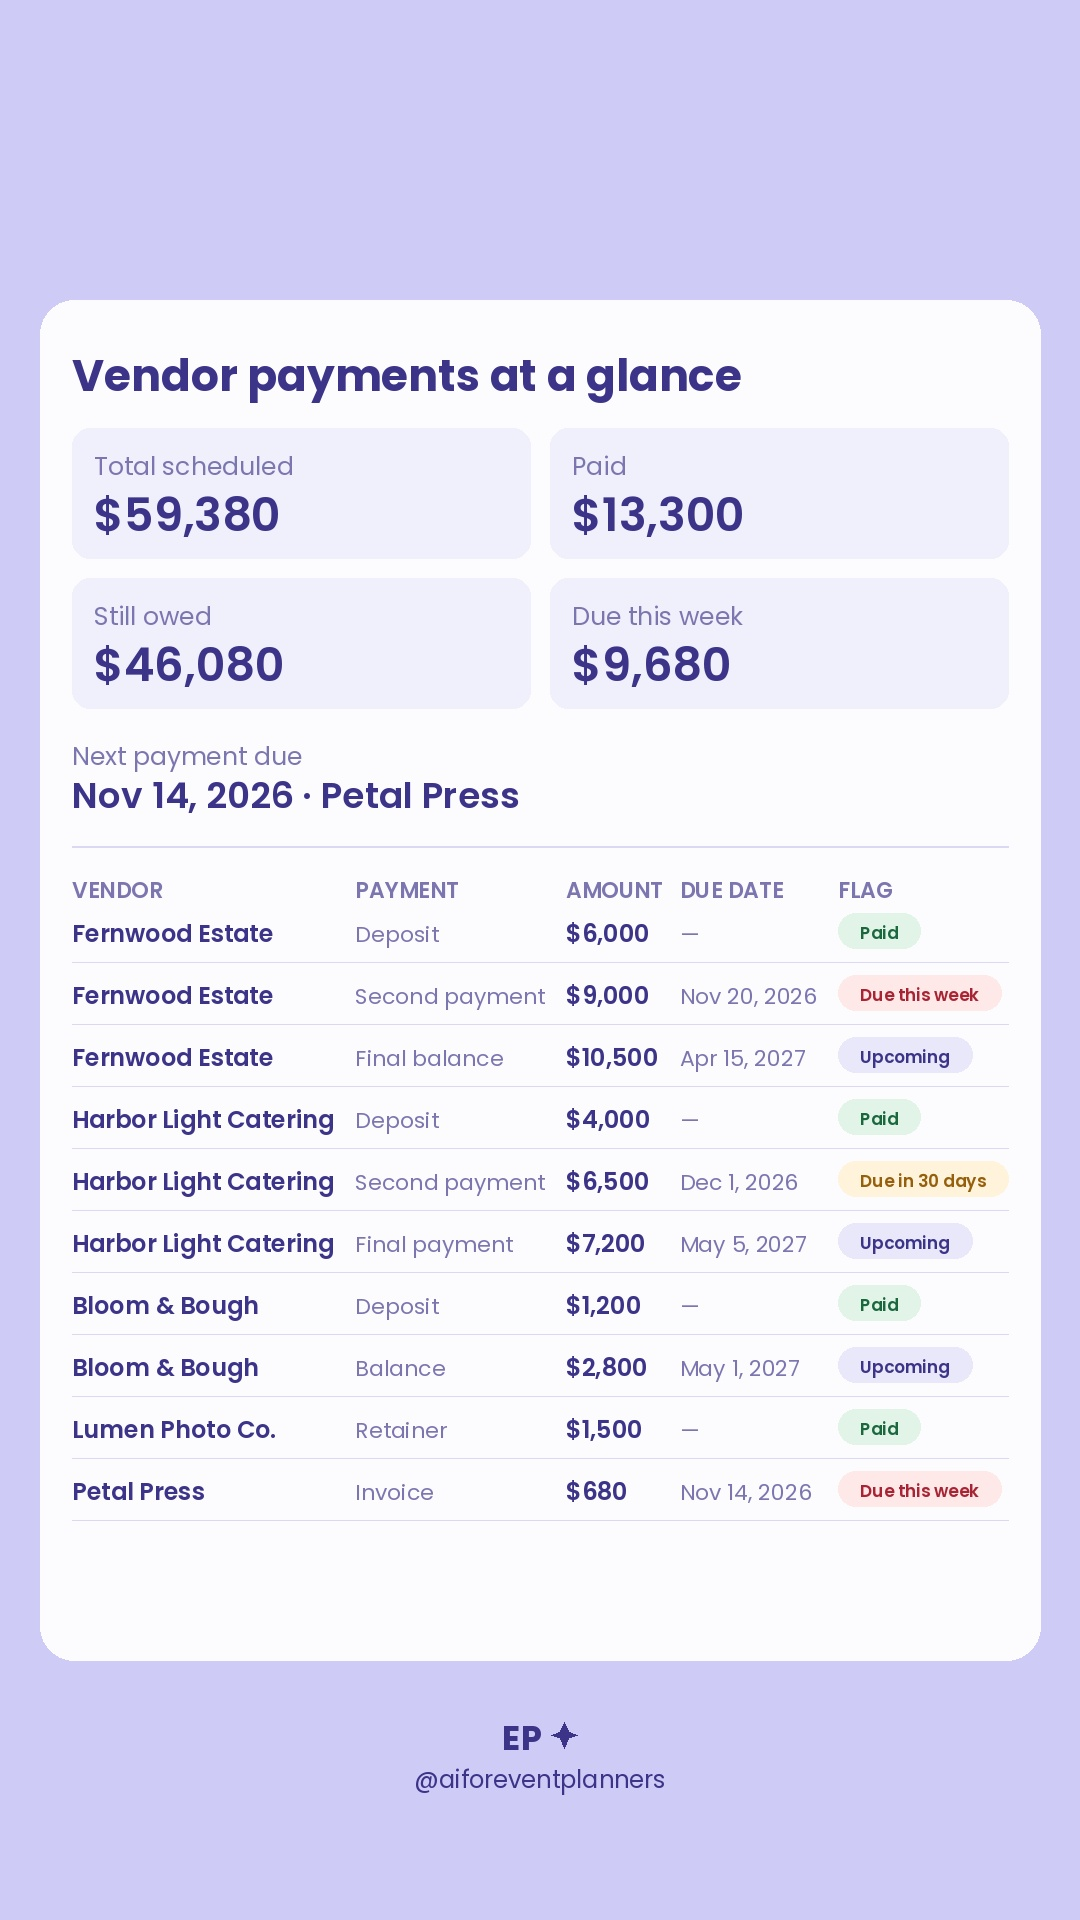
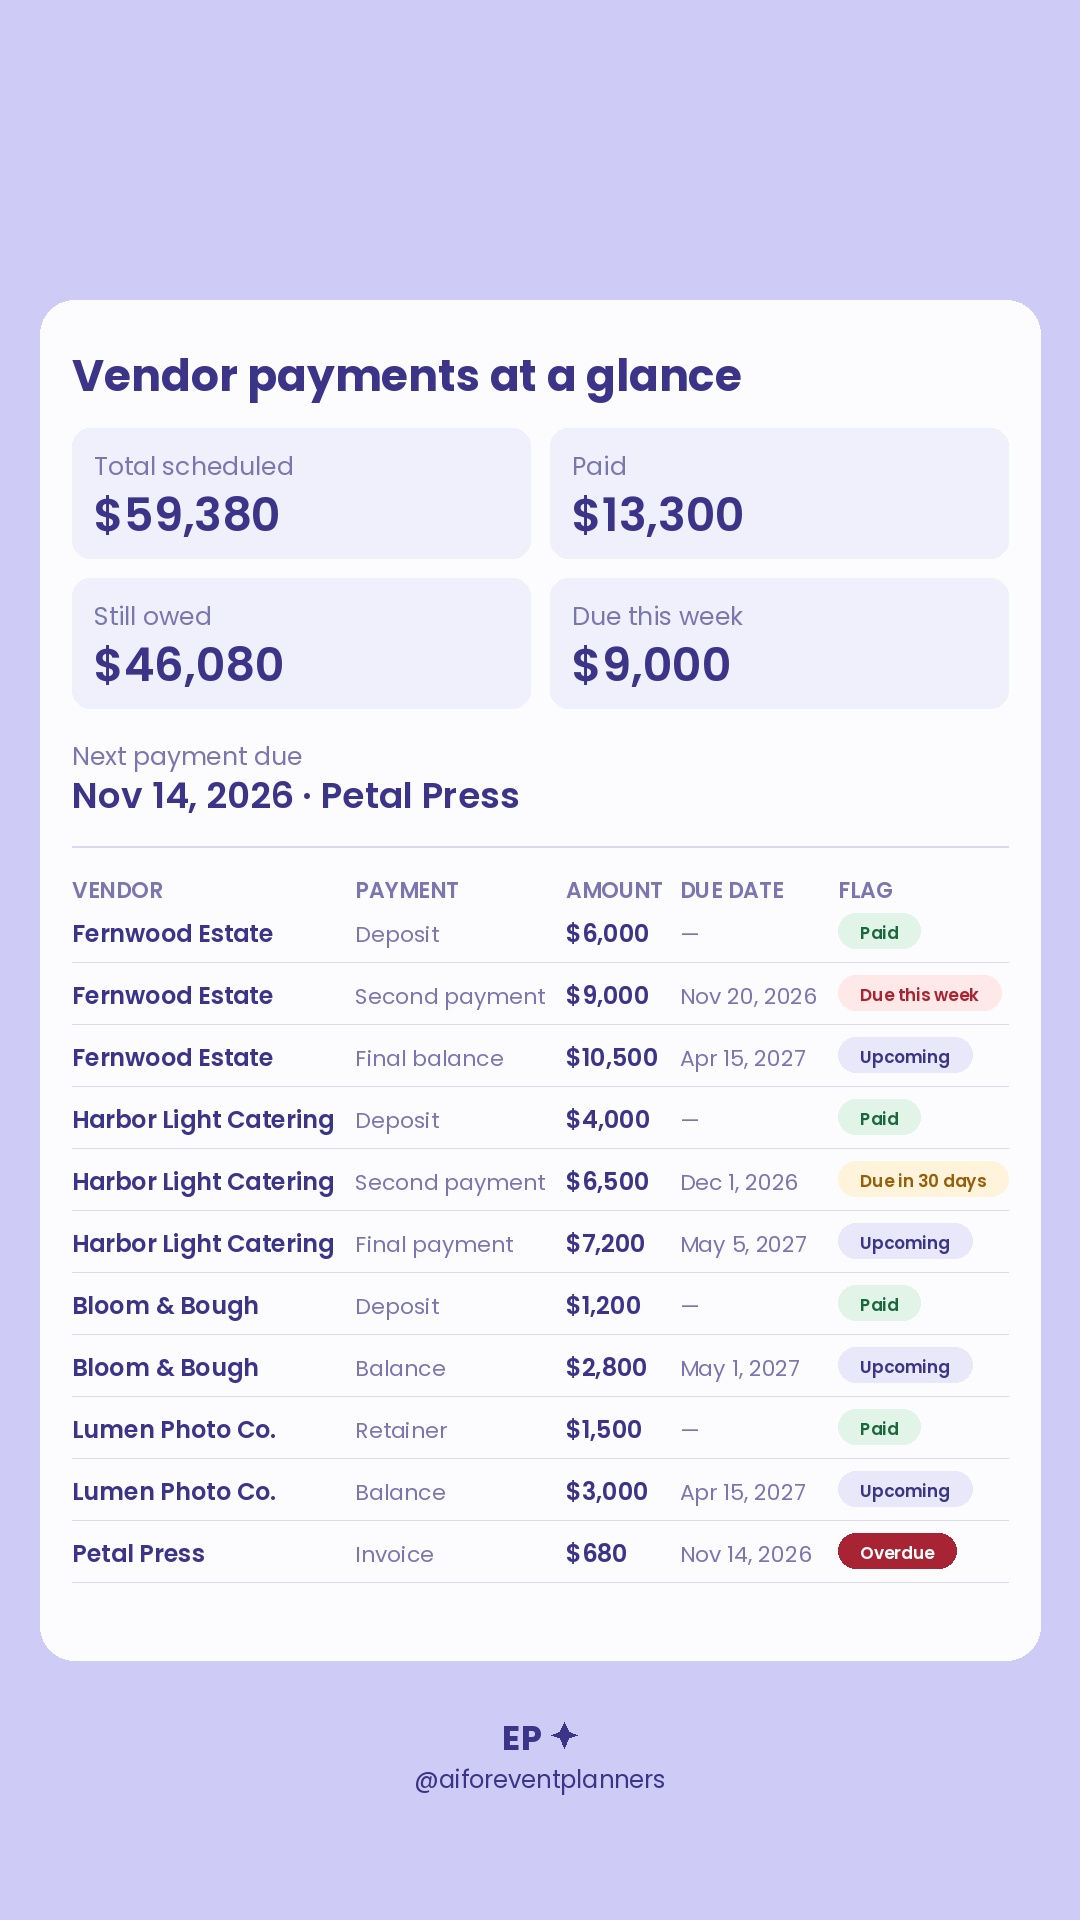
Re-render the tracker Story for her Sat 21 slot
The guide's Sat 21 CC line asks for a screenshot of the filled Vendor
Payment System tracker by Fri 20. The Nov 13 render is stale: two of its
figures recompute daily.

Re-read the live tracker (1P6zCWC18kY-SC2oocX7xzZcEMF0CXxEg3f6qDqdiOqo)
this morning. What moved:

- Petal Press' $680 invoice is six days past its Nov 14 due date, so the
  sheet's computed Flag column reads Overdue. make_story.py had no chip
  for that value; it does now, filled #A82434 with white text so it is the
  loudest cell on the card. check() asserts exactly one Overdue row is in
  frame, because that row is the argument for the product.
- Due this week fell $9,680 -> $9,000: Fernwood's second payment came due
  today and Petal Press moved out of the week.
- Due in the next 30 days reads $16,750.
- "Next payment due" still reads Nov 14 / Petal Press, because that row is
  unpaid. Left exactly as the sheet computes it; the Overdue chip on the
  same row is what makes it legible.

Grid is eleven rows now (the card holds eleven, asserted), so Lumen's
balance joins the ten from Nov 13. Paid rows still sum to $12,700 against
the sheet's $13,300 across all eighteen, which the existing assert checks.
Every vendor is a demo vendor from the product's own test emails.

Claude-Session: https://claude.ai/code/session_01HKX4LcxS3og4W8QFWqNVPj

diff --git a/products/vendor-payment-system/make_story.py b/products/vendor-payment-system/make_story.py
@@ -44,6 +44,7 @@ MUTED = (124, 118, 176)
 
 # Flag chips. Read off the tracker's own computed column.
 CHIP = {
+    "Overdue":         ((168, 36, 52), (255, 255, 255)),
     "Due this week":   ((255, 232, 232), (168, 36, 52)),
     "Due in 30 days":  ((255, 243, 219), (150, 95, 12)),
     "Upcoming":        ((233, 232, 250), (60, 52, 137)),
@@ -57,27 +58,37 @@ F = lambda p, s: ImageFont.truetype(p, s)
 
 HANDLE = "@aiforeventplanners"
 
-# --- live values, read from the real tracker on 2026-11-13 ---------------
+# --- live values, read from the real tracker on 2026-11-20 --------------
+# Re-read for her Sat 21 Story. Three things moved since the Nov 13 build:
+# Petal Press' $680 went six days past its Nov 14 due date and the sheet now
+# flags it OVERDUE; Fernwood's second payment came due today, so Due this
+# week fell from $9,680 to $9,000; and Due in the next 30 days reads $16,750.
+# "Next payment due" still says Nov 14 because that row is unpaid — which is
+# the tracker working, not a stale screenshot, and the Overdue chip on the
+# same row says so.
 SUMMARY = [
     ("Total scheduled", "$59,380"),
     ("Paid", "$13,300"),
     ("Still owed", "$46,080"),
-    ("Due this week", "$9,680"),
+    ("Due this week", "$9,000"),
 ]
 NEXT_DUE = ("Next payment due", "Nov 14, 2026 · Petal Press")
 
-# Vendor, Payment, Amount, Due date, Flag
+# Vendor, Payment, Amount, Due date, Flag — the sheet's own first eleven rows,
+# in its own order, with its own computed Flag column. Eleven is what the card
+# holds; the generator asserts it.
 ROWS = [
-    ("Fernwood Estate",       "Deposit",        "$6,000",  "—",        "Paid"),
+    ("Fernwood Estate",       "Deposit",        "$6,000",  "—",             "Paid"),
     ("Fernwood Estate",       "Second payment", "$9,000",  "Nov 20, 2026",  "Due this week"),
     ("Fernwood Estate",       "Final balance",  "$10,500", "Apr 15, 2027",  "Upcoming"),
-    ("Harbor Light Catering", "Deposit",        "$4,000",  "—",        "Paid"),
+    ("Harbor Light Catering", "Deposit",        "$4,000",  "—",             "Paid"),
     ("Harbor Light Catering", "Second payment", "$6,500",  "Dec 1, 2026",   "Due in 30 days"),
     ("Harbor Light Catering", "Final payment",  "$7,200",  "May 5, 2027",   "Upcoming"),
-    ("Bloom & Bough",         "Deposit",        "$1,200",  "—",        "Paid"),
+    ("Bloom & Bough",         "Deposit",        "$1,200",  "—",             "Paid"),
     ("Bloom & Bough",         "Balance",        "$2,800",  "May 1, 2027",   "Upcoming"),
-    ("Lumen Photo Co.",       "Retainer",       "$1,500",  "—",        "Paid"),
-    ("Petal Press",           "Invoice",        "$680",    "Nov 14, 2026",  "Due this week"),
+    ("Lumen Photo Co.",       "Retainer",       "$1,500",  "—",             "Paid"),
+    ("Lumen Photo Co.",       "Balance",        "$3,000",  "Apr 15, 2027",  "Upcoming"),
+    ("Petal Press",           "Invoice",        "$680",    "Nov 14, 2026",  "Overdue"),
 ]
 
 M = 40
@@ -193,6 +204,8 @@ def check():
         assert flag in CHIP, f"unknown flag {flag!r}"
     paid = sum(int(r[2].replace("$", "").replace(",", "")) for r in ROWS if r[4] == "Paid")
     assert paid == 12700, f"paid rows shown sum to {paid}; the tracker's Paid is $13,300 across all rows"
+    assert sum(1 for r in ROWS if r[4] == "Overdue") == 1, (
+        "the tracker's Overdue row is what makes this image worth posting")
     text = " ".join(" ".join(r) for r in ROWS).lower()
     for banned in ("comment ", "link in bio", "gumroad", "prompt"):
         assert banned not in text, banned

diff --git a/products/vendor-payment-system/README.md b/products/vendor-payment-system/README.md
@@ -308,7 +308,7 @@ to the guide says the same.
 
 Her own comments will never trigger it, so the test needs someone else.
 
-## The Sat 14 Story image
+## The weekly Story image
 
 `make_story.py` → `story/vendor-payment-tracker-story.jpg`, 1080x1920. The
 guide's Fri 13 line asks for "a screenshot of the filled Vendor Payment System
@@ -326,6 +326,19 @@ publish.
 "Every vendor payment in one place," and the Gumroad link sticker on top in
 the app; a printed line underneath a sticker reads as a mistake. The empty
 band under the grid is where the sticker goes.
+
+**Re-rendered each week from the live sheet, 2026-11-20 for her Sat 21
+Story.** Three figures moved since the Nov 13 build: Petal Press' $680 went
+six days past its Nov 14 due date, so the sheet's Flag column now reads
+**Overdue** on that row and the generator has a chip for it — filled red with
+white text, the loudest thing on the card, because a caught late payment is
+the whole argument for the tracker. Fernwood's second payment came due today,
+so Due this week fell from $9,680 to $9,000. "Next payment due" still reads
+Nov 14 because that row is unpaid; that is the sheet's own arithmetic and the
+Overdue chip on the same row explains it, so it is left as the tracker states
+it. The grid now carries eleven rows rather than ten — the card holds eleven
+and the generator asserts the last one is in frame, along with the Overdue row
+itself.
 
 **Column widths are measured, not typed.** The first build ran "Second
 payment" straight through the Amount column and pushed the "Due this week"
